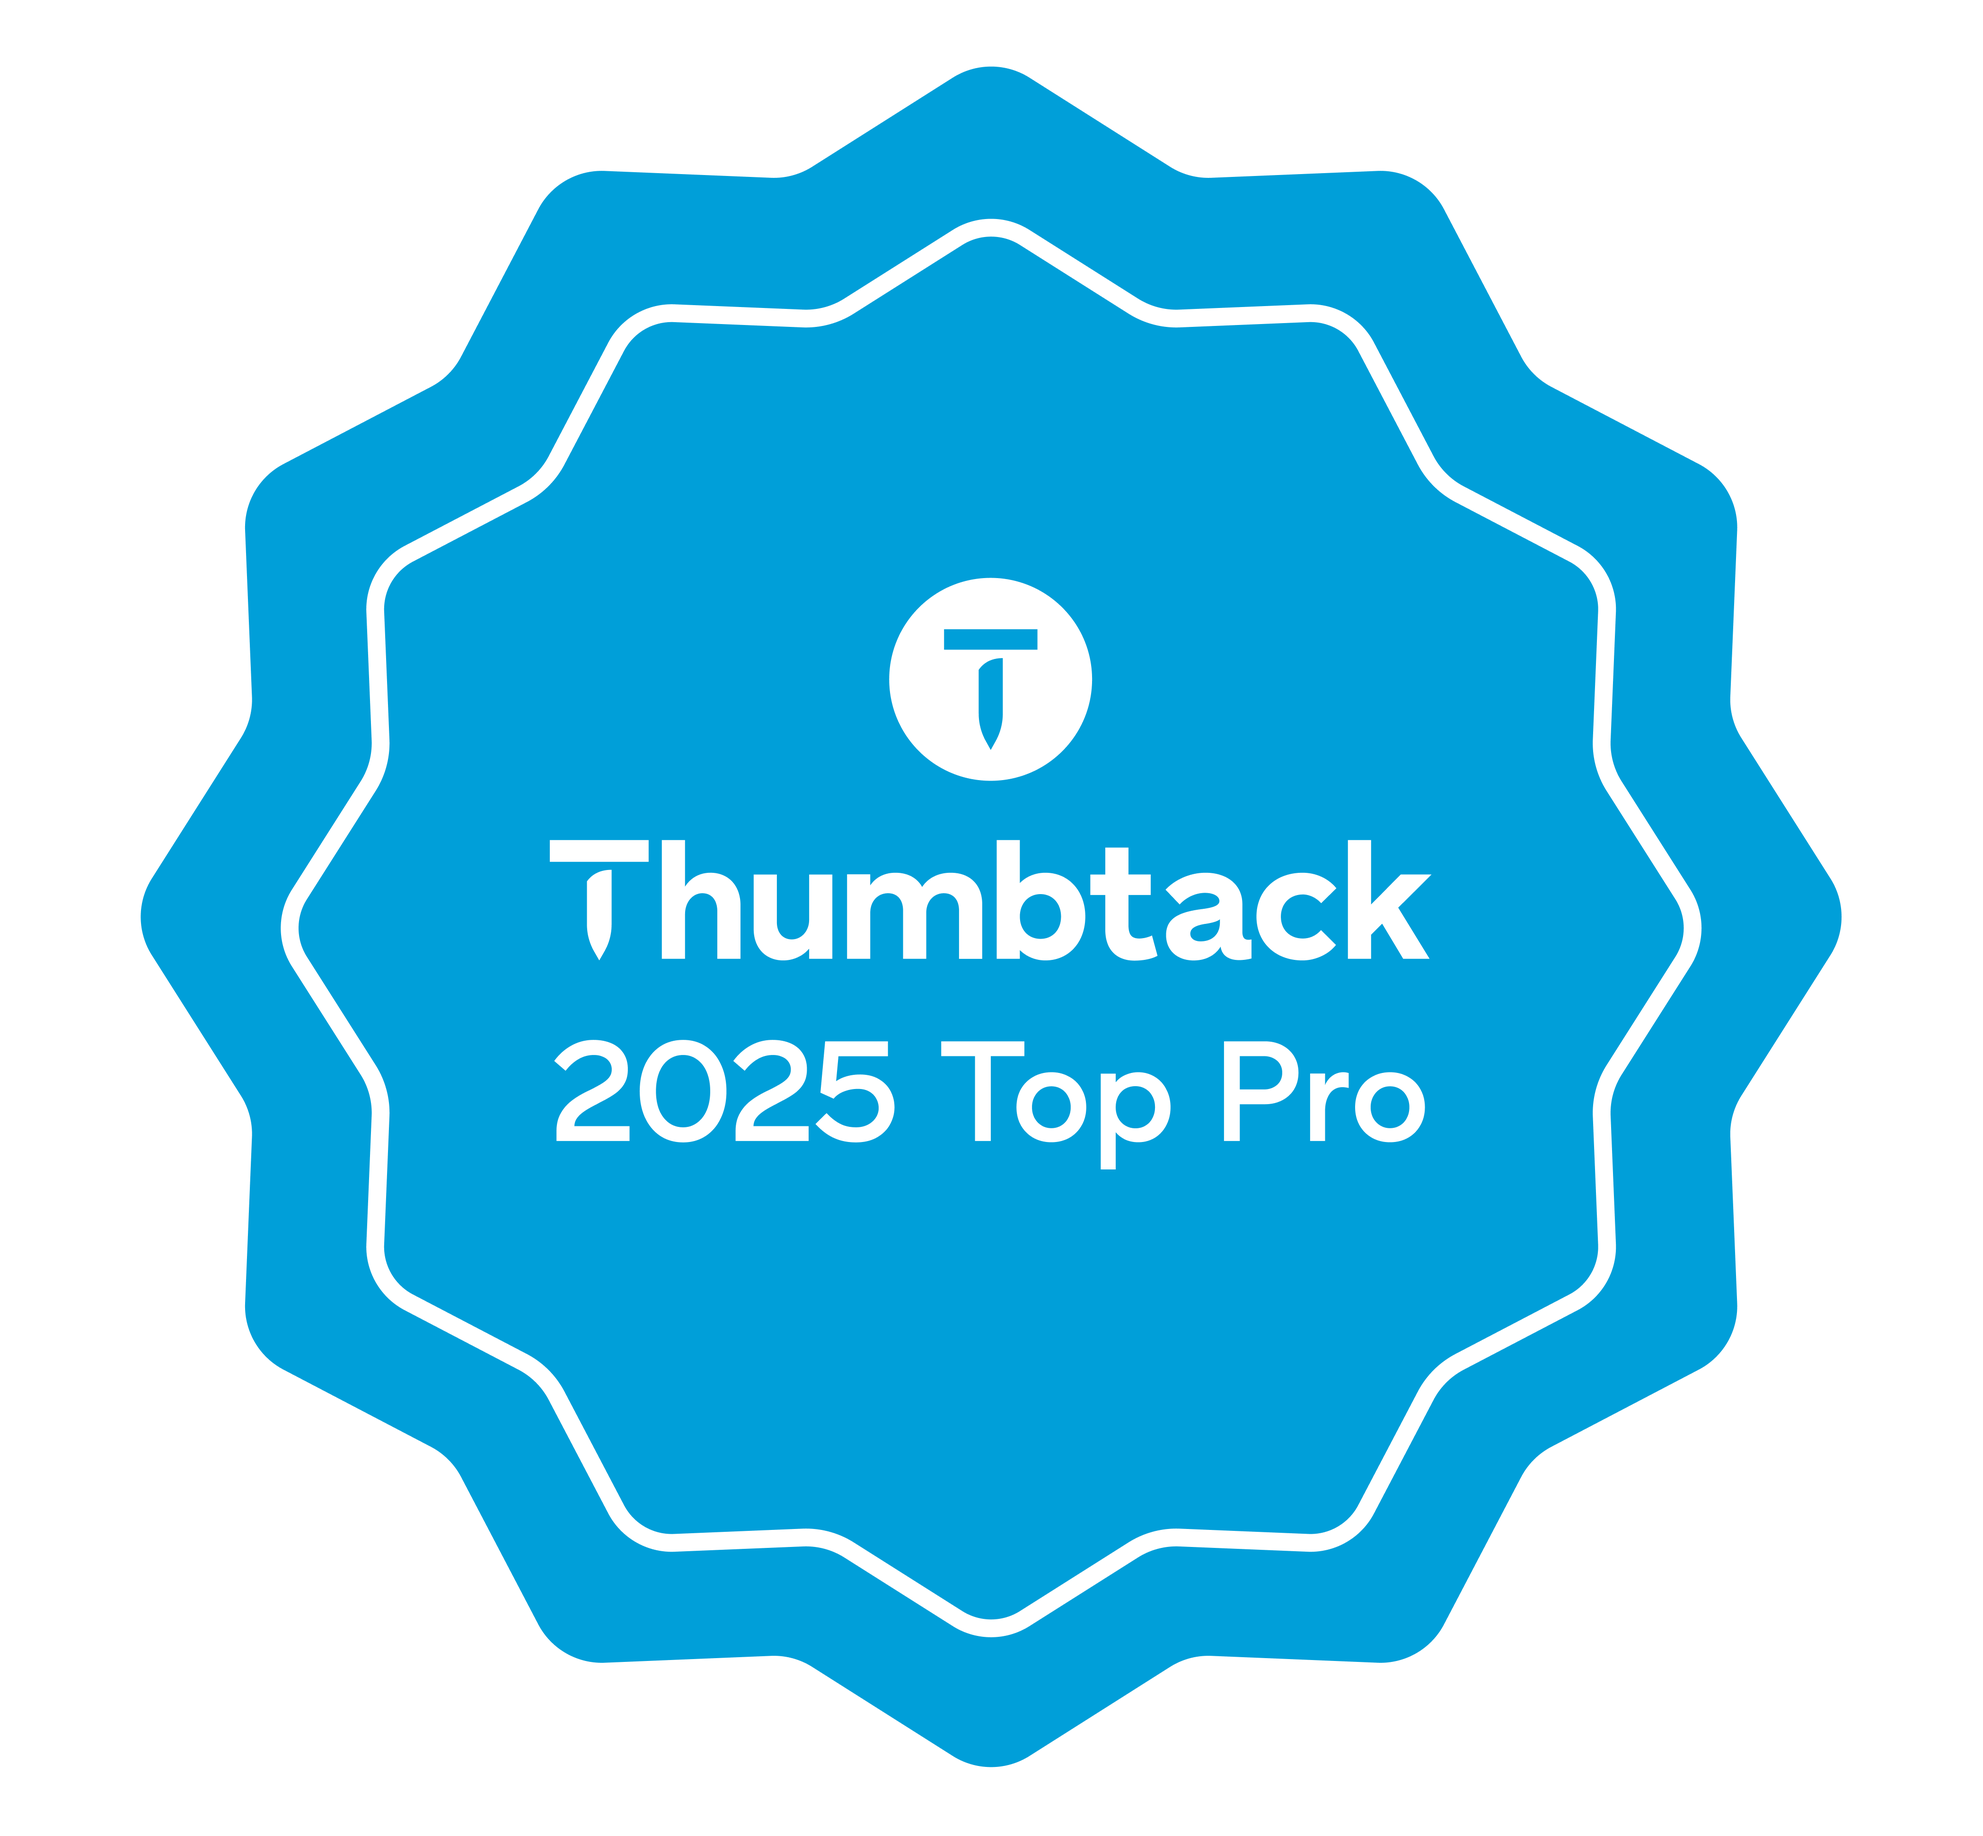
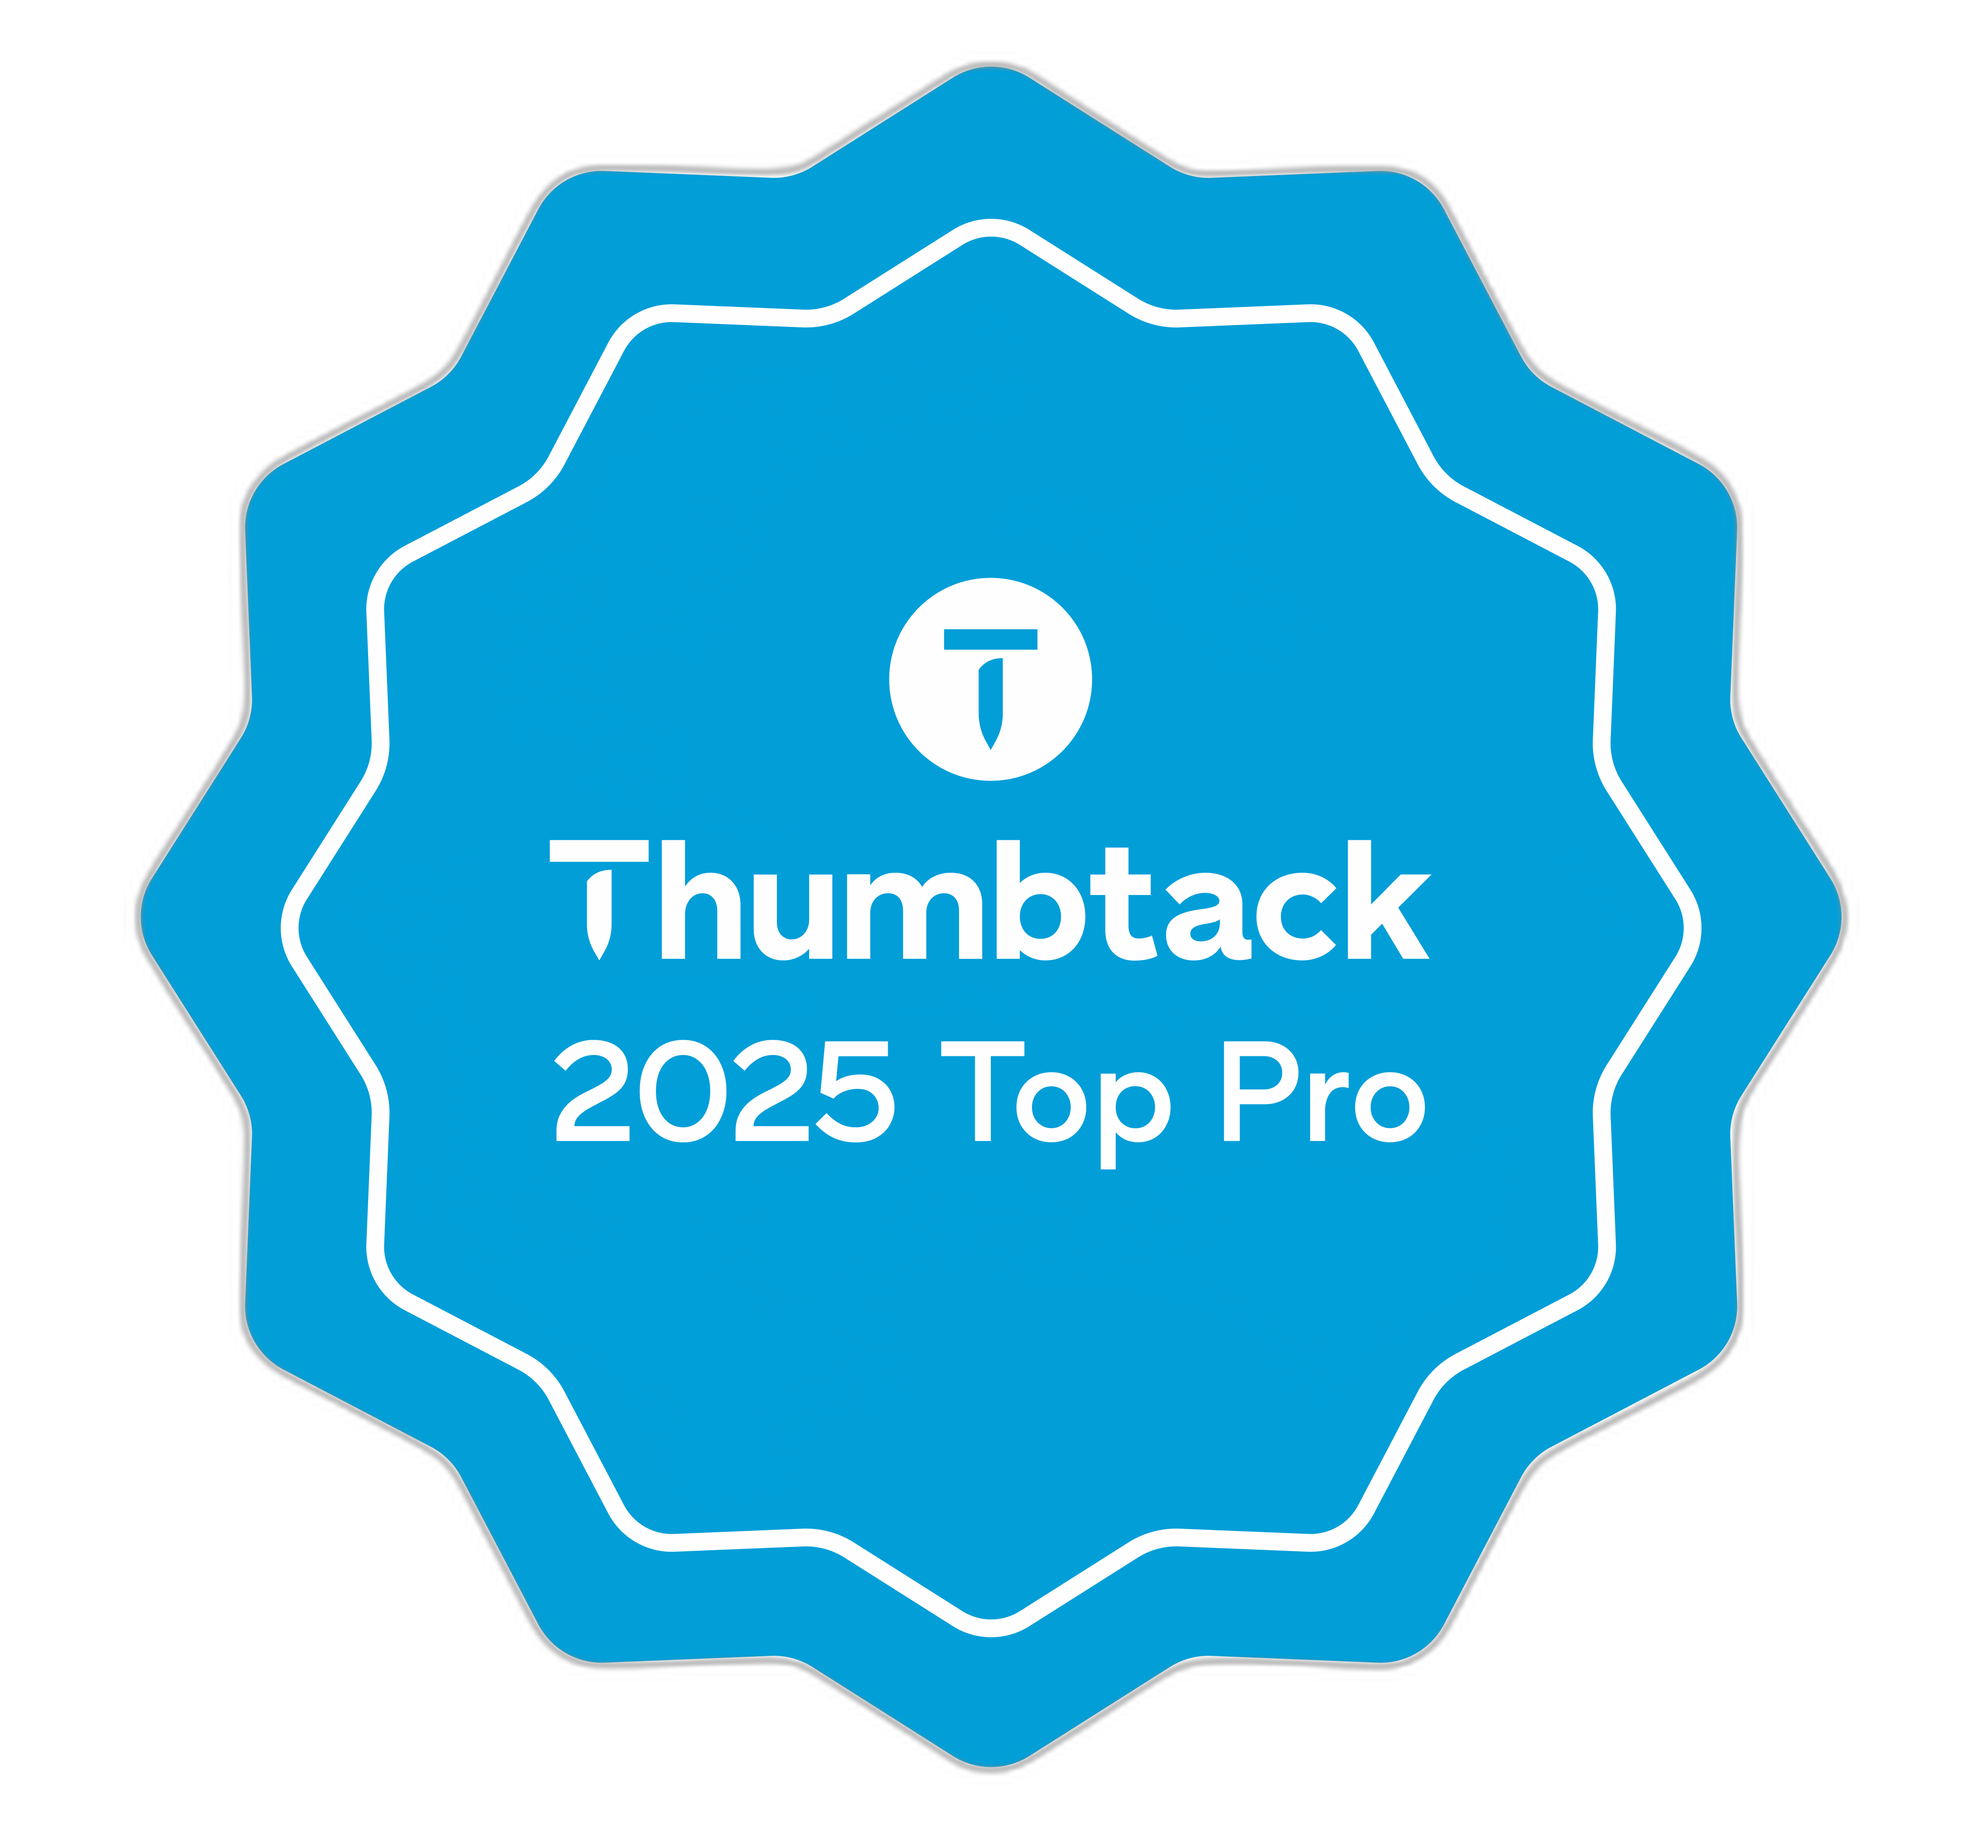
Add 2025 Thumbtack Top Pro badge to site
- Add 56px badge next to logo in navigation (all pages)
- Add 320px badge section on homepage between hero and services
- Update reviews page banner text to "Achieved Top Pro Status On Thumbtack For 2025"
- Process badge image to remove white background with transparency

🤖 Generated with [Claude Code](https://claude.com/claude-code)

diff --git a/components/ui/Navigation.tsx b/components/ui/Navigation.tsx
@@ -1,6 +1,7 @@
 "use client";
 
 import Link from "next/link";
+import Image from "next/image";
 import { usePathname } from "next/navigation";
 import { NavLink } from "@/components/nav-link";
 import { MobileNav } from "@/components/mobile-nav";
@@ -24,9 +25,16 @@ export default function Navigation() {
       <div className="flex justify-between items-center relative">
         <Link
           href="/"
-          className="text-2xl font-serif text-white transition-all duration-300 hover:scale-105"
+          className="text-2xl font-serif text-white transition-all duration-300 hover:scale-105 flex items-center gap-2"
         >
           Crystal Seed Tarot
+          <Image
+            src="/images/2025 Thumbtack Top Pro Badge.png"
+            alt="2025 Thumbtack Top Pro"
+            width={56}
+            height={56}
+            className="transition-all duration-300 hover:scale-110 hover:drop-shadow-[0_0_10px_rgba(168,85,247,0.5)]"
+          />
         </Link>
 
         {/* Desktop Navigation */}

diff --git a/app/page.tsx b/app/page.tsx
@@ -111,6 +111,21 @@ export default async function Home() {
         </div>
       </section>
 
+      {/* Thumbtack Badge Section - Between Hero and Services */}
+      <section className="py-8 md:py-12 bg-black/20 backdrop-blur-md">
+        <div className="container mx-auto px-4">
+          <div className="flex justify-center items-center">
+            <Image
+              src="/images/2025 Thumbtack Top Pro Badge.png"
+              alt="2025 Thumbtack Top Pro"
+              width={320}
+              height={320}
+              className="transition-all duration-300 hover:scale-105 hover:drop-shadow-[0_0_20px_rgba(168,85,247,0.6)]"
+            />
+          </div>
+        </div>
+      </section>
+
       {/* Services Section - 2x2 Grid */}
       <section className="py-12 md:py-24 bg-black/20 backdrop-blur-md">
         <div className="container mx-auto px-4">

diff --git a/app/reviews/page.tsx b/app/reviews/page.tsx
@@ -453,7 +453,7 @@ export default function Reviews() {
 
           <div className="text-center mb-12 bg-gradient-to-r from-purple-500/20 via-white/20 to-purple-500/20 p-6 rounded-lg shadow-inner transform transition-all duration-2000 hover:scale-[1.02] hover:shadow-lg hover:shadow-purple-500/30 hover:bg-gradient-to-r hover:from-purple-500/30 hover:via-white/30 hover:to-purple-500/30">
             <h2 className="text-2xl font-serif text-white mb-2">
-              Top Pro status on Thumbtack
+              Achieved Top Pro Status On Thumbtack For 2025
             </h2>
             <p className="text-xl text-white/90">
               Top Pros are among the highest-rated, most popular professionals
